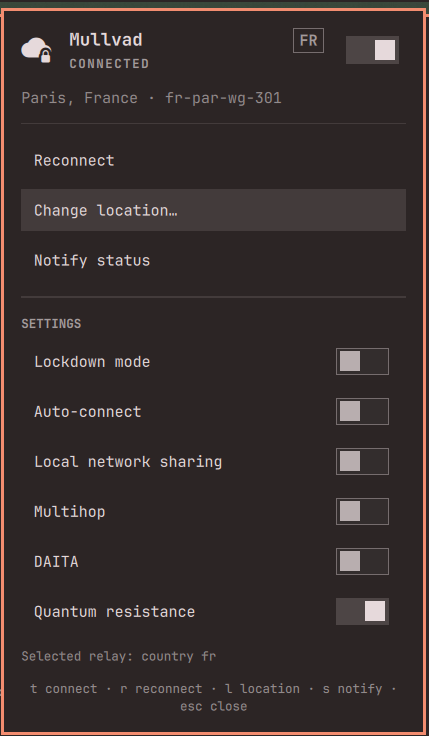
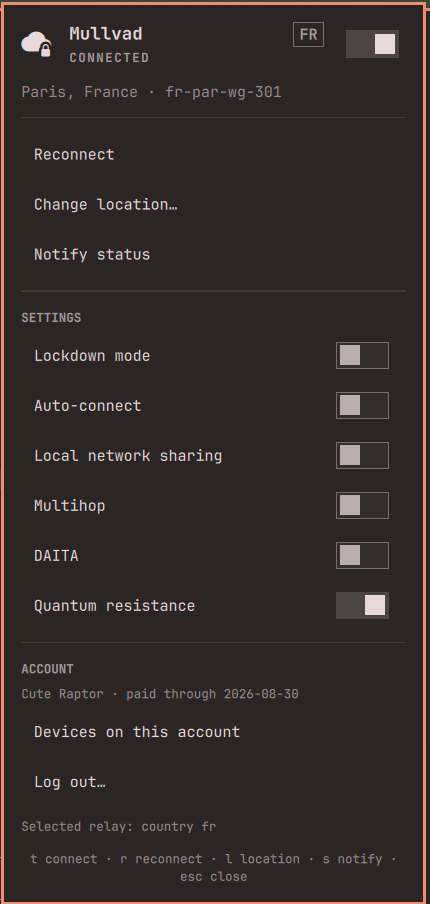
Add Mullvad account sign-in, sign-out, and devices
The panel gains an account section with the device name and paid-through
date, a device list, and log out; with no account it collapses to a single
"Log in…" row. The menu gains matching rows, guarded on login state.

Login runs `mullvad account login` in a terminal, which prompts for the
number on stdin, so the account number never reaches argv, the process
list, or shell history — and no code path puts it in a notification.
Logging out confirms first, since it revokes the device.

diff --git a/MullvadPanel.qml b/MullvadPanel.qml
@@ -22,6 +22,9 @@ Panel {
   // ── Settings, read back after every change ─────────────────────────────────
   property var values: ({})
   property string constraint: ""
+  property string device: ""
+  property string expires: ""
+  readonly property bool loggedIn: String(values.loggedin || "") === "yes"
 
   property int cursorIndex: 0
   property bool cursorActive: false
@@ -49,6 +52,7 @@ Panel {
   }
 
   readonly property string stateText: {
+    if (!loggedIn) return "Not logged in"
     if (connected) return "Connected"
     if (tunnel === "connecting") return "Connecting…"
     if (tunnel === "disconnecting") return "Disconnecting…"
@@ -64,12 +68,16 @@ Panel {
 
   // The hero's detail is a pill beside the title, so it has to stay a badge —
   // anything longer squeezes the title out of the row.
-  readonly property string badgeText: connected && code ? code : ""
+  readonly property string badgeText: loggedIn && connected && code ? code : ""
 
   // ── Rows: one list drives both the keyboard cursor and the mouse ───────────
   readonly property var actionKeys: ["reconnect", "location", "status"]
   readonly property var settingKeys: ["lockdown", "autoconnect", "lan", "multihop", "daita", "quantum"]
-  readonly property var rowKeys: ["power"].concat(actionKeys).concat(settingKeys)
+  readonly property var accountKeys: ["devices", "logout"]
+  // Without an account there is exactly one thing worth offering.
+  readonly property var rowKeys: loggedIn
+    ? ["power"].concat(actionKeys).concat(settingKeys).concat(accountKeys)
+    : ["login"]
 
   function labelFor(key) {
     switch (key) {
@@ -83,6 +91,9 @@ Panel {
     case "multihop": return "Multihop"
     case "daita": return "DAITA"
     case "quantum": return "Quantum resistance"
+    case "login": return "Log in…"
+    case "logout": return "Log out…"
+    case "devices": return "Devices on this account"
     }
     return key
   }
@@ -104,6 +115,9 @@ Panel {
     case "multihop": return "mullvad-menu toggle-multihop"
     case "daita": return "mullvad-menu toggle-daita"
     case "quantum": return "mullvad-menu toggle-quantum"
+    case "login": return "mullvad-menu login"
+    case "logout": return "mullvad-menu logout"
+    case "devices": return "mullvad-menu devices"
     }
     return ""
   }
@@ -111,9 +125,9 @@ Panel {
   function activate(key) {
     // The relay pickers are the menu's job — it already draws them, and it is
     // one keystroke away from everything else the menu offers.
-    if (key === "location") {
+    if (key === "location" || key === "login" || key === "logout" || key === "devices") {
       close()
-      if (bar) bar.run("omarchy-menu summon mullvad.location")
+      if (bar) bar.run(key === "location" ? "omarchy-menu summon mullvad.location" : commandFor(key))
       return
     }
 
@@ -203,14 +217,17 @@ Panel {
   Process {
     id: settingsProc
     command: ["bash", "-lc",
-      "printf 'lockdown=%s\\nautoconnect=%s\\nlan=%s\\nmultihop=%s\\ndaita=%s\\nquantum=%s\\nconstraint=%s\\n'"
+      "printf 'lockdown=%s\\nautoconnect=%s\\nlan=%s\\nmultihop=%s\\ndaita=%s\\nquantum=%s\\nconstraint=%s\\nloggedin=%s\\ndevice=%s\\nexpires=%s\\n'"
       + " \"$(mullvad lockdown-mode get | sed 's/.*: //')\""
       + " \"$(mullvad auto-connect get | sed 's/.*: //')\""
       + " \"$(mullvad lan get | sed 's/.*: //')\""
       + " \"$(mullvad relay get | sed -n 's/^[[:space:]]*Multihop state:[[:space:]]*//p')\""
       + " \"$(mullvad tunnel get | sed -n 's/^[[:space:]]*DAITA:[[:space:]]*//p')\""
       + " \"$(mullvad tunnel get | sed -n 's/^[[:space:]]*Quantum resistance:[[:space:]]*//p')\""
-      + " \"$(mullvad relay get | sed -n 's/^[[:space:]]*Location:[[:space:]]*//p')\""]
+      + " \"$(mullvad relay get | sed -n 's/^[[:space:]]*Location:[[:space:]]*//p')\""
+      + " \"$(mullvad account get >/dev/null 2>&1 && echo yes || echo no)\""
+      + " \"$(mullvad account get 2>/dev/null | sed -n 's/^Device name:[[:space:]]*//p')\""
+      + " \"$(mullvad account get 2>/dev/null | sed -n 's/^Expires at:[[:space:]]*//p' | cut -d' ' -f1)\""]
     stdout: SplitParser {
       onRead: function (data) {
         var parts = String(data).split("=")
@@ -219,6 +236,14 @@ Panel {
         var value = parts.join("=").trim()
         if (key === "constraint") {
           root.constraint = value
+          return
+        }
+        if (key === "device") {
+          root.device = value
+          return
+        }
+        if (key === "expires") {
+          root.expires = value
           return
         }
         var next = ({})
@@ -267,7 +292,7 @@ Panel {
     open: root.opened
     focusTarget: keyCatcher
     contentWidth: panel.fittedContentWidth(Style.space(340))
-    contentHeight: panel.fittedContentHeight(column.implicitHeight, Style.space(660))
+    contentHeight: panel.fittedContentHeight(column.implicitHeight, Style.space(860))
 
     PanelKeyCatcher {
       id: keyCatcher
@@ -342,6 +367,7 @@ Panel {
 
               trailingControl: Component {
                 ToggleSwitch {
+                  visible: root.loggedIn
                   checked: header.on
                   busy: header.working
                   hasCursor: header.ringVisible
@@ -356,17 +382,62 @@ Panel {
           Text {
             width: parent.width
             text: root.whereText
-            visible: text !== ""
+            visible: text !== "" && root.loggedIn
             color: root.dim
             font.family: root.fontFamily
             font.pixelSize: Style.font.body
             elide: Text.ElideRight
           }
 
-          PanelSeparator { foreground: root.foreground }
+          // Logged out: one thing to offer, and a word on what it does.
+          Column {
+            width: parent.width
+            visible: !root.loggedIn
+            spacing: Style.space(8)
+
+            Text {
+              width: parent.width
+              text: "Log in with your Mullvad account number to use the tunnel. The number is typed into a terminal, never onto a command line."
+              color: root.dim
+              font.family: root.fontFamily
+              font.pixelSize: Style.font.caption
+              wrapMode: Text.WordWrap
+            }
+
+            Rectangle {
+              width: parent.width
+              implicitHeight: Style.space(34)
+              radius: Style.cornerRadius > 0 ? Style.space(8) : 0
+              color: root.hasCursor("login") ? Qt.rgba(root.foreground.r, root.foreground.g, root.foreground.b, 0.12) : "transparent"
+
+              Text {
+                anchors.verticalCenter: parent.verticalCenter
+                anchors.left: parent.left
+                anchors.leftMargin: Style.space(10)
+                text: root.labelFor("login")
+                color: root.foreground
+                font.family: root.fontFamily
+                font.pixelSize: Style.font.body
+              }
+
+              MouseArea {
+                anchors.fill: parent
+                hoverEnabled: true
+                cursorShape: Qt.PointingHandCursor
+                onEntered: root.setCursor("login")
+                onClicked: root.activate("login")
+              }
+            }
+          }
+
+          PanelSeparator {
+            foreground: root.foreground
+            visible: root.loggedIn
+          }
 
           Column {
             width: parent.width
+            visible: root.loggedIn
             spacing: Style.space(6)
 
             Repeater {
@@ -400,10 +471,14 @@ Panel {
             }
           }
 
-          PanelSeparator { foreground: root.foreground }
+          PanelSeparator {
+            foreground: root.foreground
+            visible: root.loggedIn
+          }
 
           Column {
             width: parent.width
+            visible: root.loggedIn
             spacing: Style.space(6)
 
             PanelSectionHeader {
@@ -457,10 +532,66 @@ Panel {
             }
           }
 
+          PanelSeparator {
+            foreground: root.foreground
+            visible: root.loggedIn
+          }
+
+          Column {
+            width: parent.width
+            visible: root.loggedIn
+            spacing: Style.space(6)
+
+            PanelSectionHeader {
+              text: "ACCOUNT"
+              foreground: root.foreground
+              fontFamily: root.fontFamily
+            }
+
+            Text {
+              width: parent.width
+              text: (root.device ? root.device : "This device") + (root.expires ? " · paid through " + root.expires : "")
+              color: root.dim
+              font.family: root.fontFamily
+              font.pixelSize: Style.font.caption
+              elide: Text.ElideRight
+            }
+
+            Repeater {
+              model: root.accountKeys
+
+              Rectangle {
+                required property string modelData
+                width: parent.width
+                implicitHeight: Style.space(34)
+                radius: Style.cornerRadius > 0 ? Style.space(8) : 0
+                color: root.hasCursor(modelData) ? Qt.rgba(root.foreground.r, root.foreground.g, root.foreground.b, 0.12) : "transparent"
+
+                Text {
+                  anchors.verticalCenter: parent.verticalCenter
+                  anchors.left: parent.left
+                  anchors.leftMargin: Style.space(10)
+                  text: root.labelFor(parent.modelData)
+                  color: root.foreground
+                  font.family: root.fontFamily
+                  font.pixelSize: Style.font.body
+                }
+
+                MouseArea {
+                  anchors.fill: parent
+                  hoverEnabled: true
+                  cursorShape: Qt.PointingHandCursor
+                  onEntered: root.setCursor(parent.modelData)
+                  onClicked: root.activate(parent.modelData)
+                }
+              }
+            }
+          }
+
           Text {
             width: parent.width
             text: root.constraint ? "Selected relay: " + root.constraint : ""
-            visible: text !== ""
+            visible: text !== "" && root.loggedIn
             color: root.dim
             font.family: root.fontFamily
             font.pixelSize: Style.font.caption
@@ -469,7 +600,7 @@ Panel {
 
           Text {
             width: parent.width
-            text: "t connect · r reconnect · l location · s notify · esc close"
+            text: root.loggedIn ? "t connect · r reconnect · l location · s notify · esc close" : "enter log in · esc close"
             color: root.dim
             font.family: root.fontFamily
             font.pixelSize: Style.font.caption

diff --git a/README.md b/README.md
@@ -17,9 +17,11 @@ and the exit country beside it (` FR`).
 
 **In the panel** — the state, the exit relay, and every control: connect,
 reconnect, change location, and a live switch for lockdown mode, auto-connect,
-local network sharing, multihop, DAITA, and quantum resistance. Keyboard: `j`/`k`
-or arrows to move, `enter` to activate, `t` connect, `r` reconnect, `l` location,
-`s` notify, `esc` to close.
+local network sharing, multihop, DAITA, and quantum resistance. An account
+section shows the device name and paid-through date, lists the devices on the
+account, and logs out. With no account logged in, the panel collapses to a
+single **Log in…** row. Keyboard: `j`/`k` or arrows to move, `enter` to
+activate, `t` connect, `r` reconnect, `l` location, `s` notify, `esc` to close.
 
 **In the Omarchy menu** — the same actions, searchable. `Super+Space` then type
 `vpn`, or jump straight there:
@@ -75,7 +77,17 @@ back until they match. A switch only moves once the change actually took.
 mullvad-menu toggle          # connect or disconnect
 mullvad-menu country         # pick a country from a menu
 mullvad-menu toggle-lockdown # flip a setting, confirmed with the daemon
+mullvad-menu login           # account number typed into a terminal
+mullvad-menu account         # device and expiry as a notification
 ```
+
+## Signing in
+
+`Log in…` opens a terminal running `mullvad account login`, which prompts for
+the number on stdin — so your account number never appears in a command line,
+the process list, or shell history. Logging out asks for confirmation first,
+because it revokes the device. Nothing here ever puts the account number in a
+notification or a log.
 
 ## Uninstall
 
